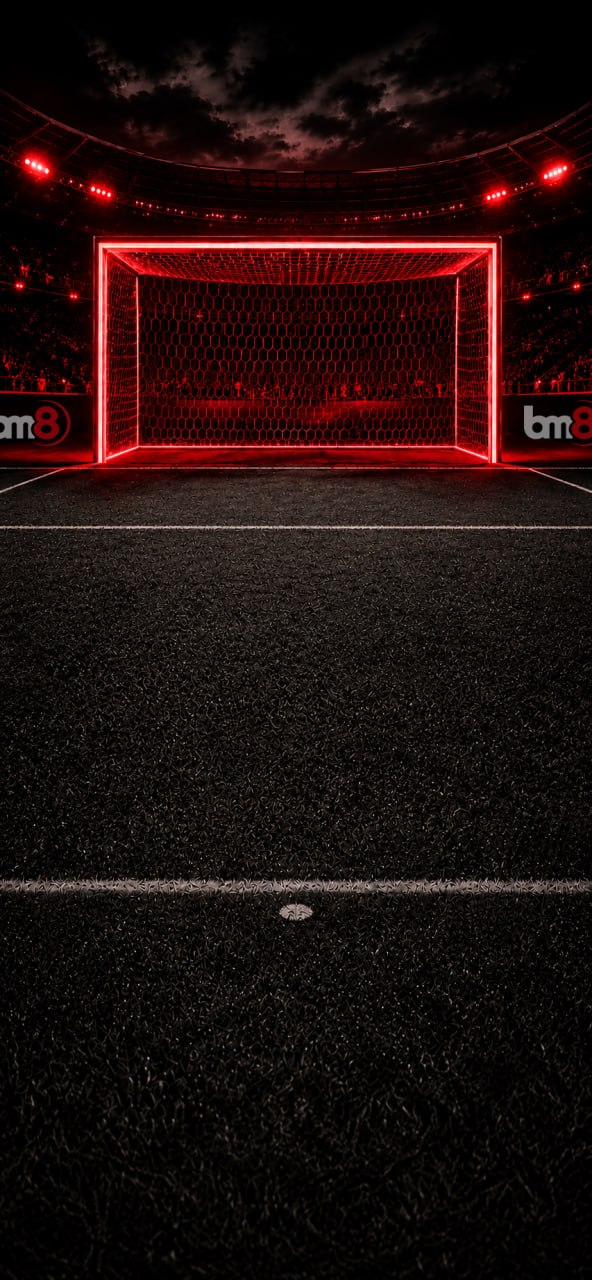
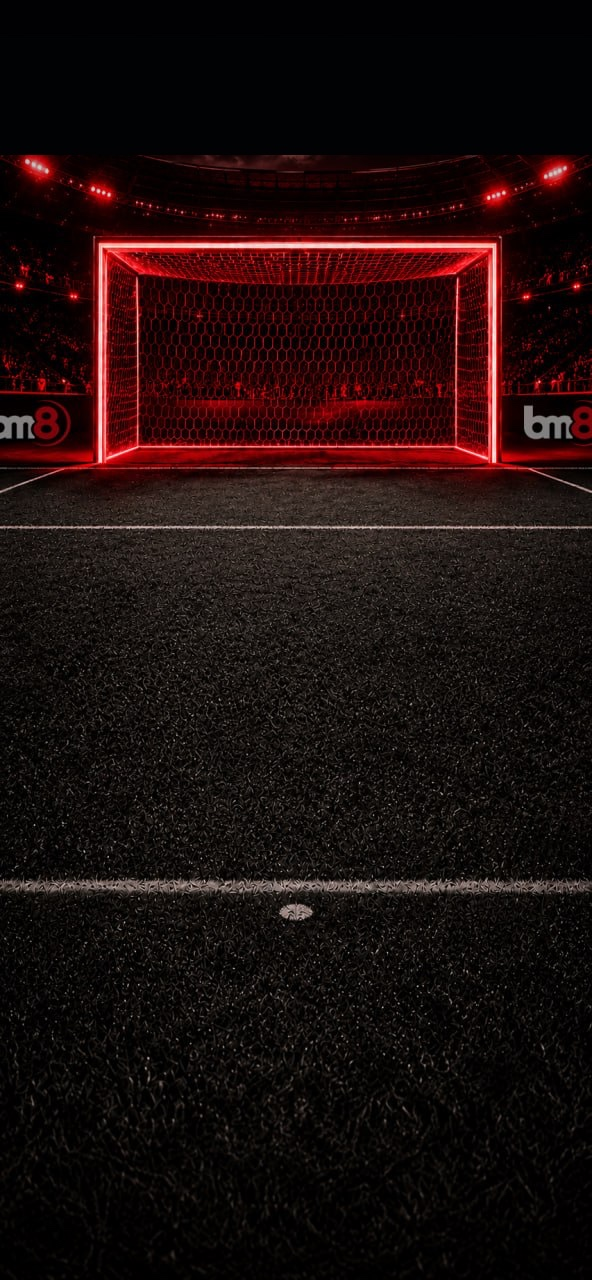
Reframe mobile stadium backdrop

Changed region(s): [[0.0, 0.0312, 1.0, 0.1562]]

diff --git a/Assets/Scripts/Bm8PenaltyPrototype.cs b/Assets/Scripts/Bm8PenaltyPrototype.cs
@@ -5685,14 +5685,14 @@ public sealed class Bm8PenaltyPrototype : MonoBehaviour
     private static Vector2 GetStadiumBackdropTextureScale()
     {
         return ShouldUsePortraitStadiumBackdrop()
-            ? new Vector2(-1f, 0.68f)
+            ? new Vector2(-1f, 1f)
             : new Vector2(-1f, 1f);
     }
 
     private static Vector2 GetStadiumBackdropTextureOffset()
     {
         return ShouldUsePortraitStadiumBackdrop()
-            ? new Vector2(1f, 0.34f)
+            ? new Vector2(1f, 0f)
             : new Vector2(1f, 0f);
     }
 
